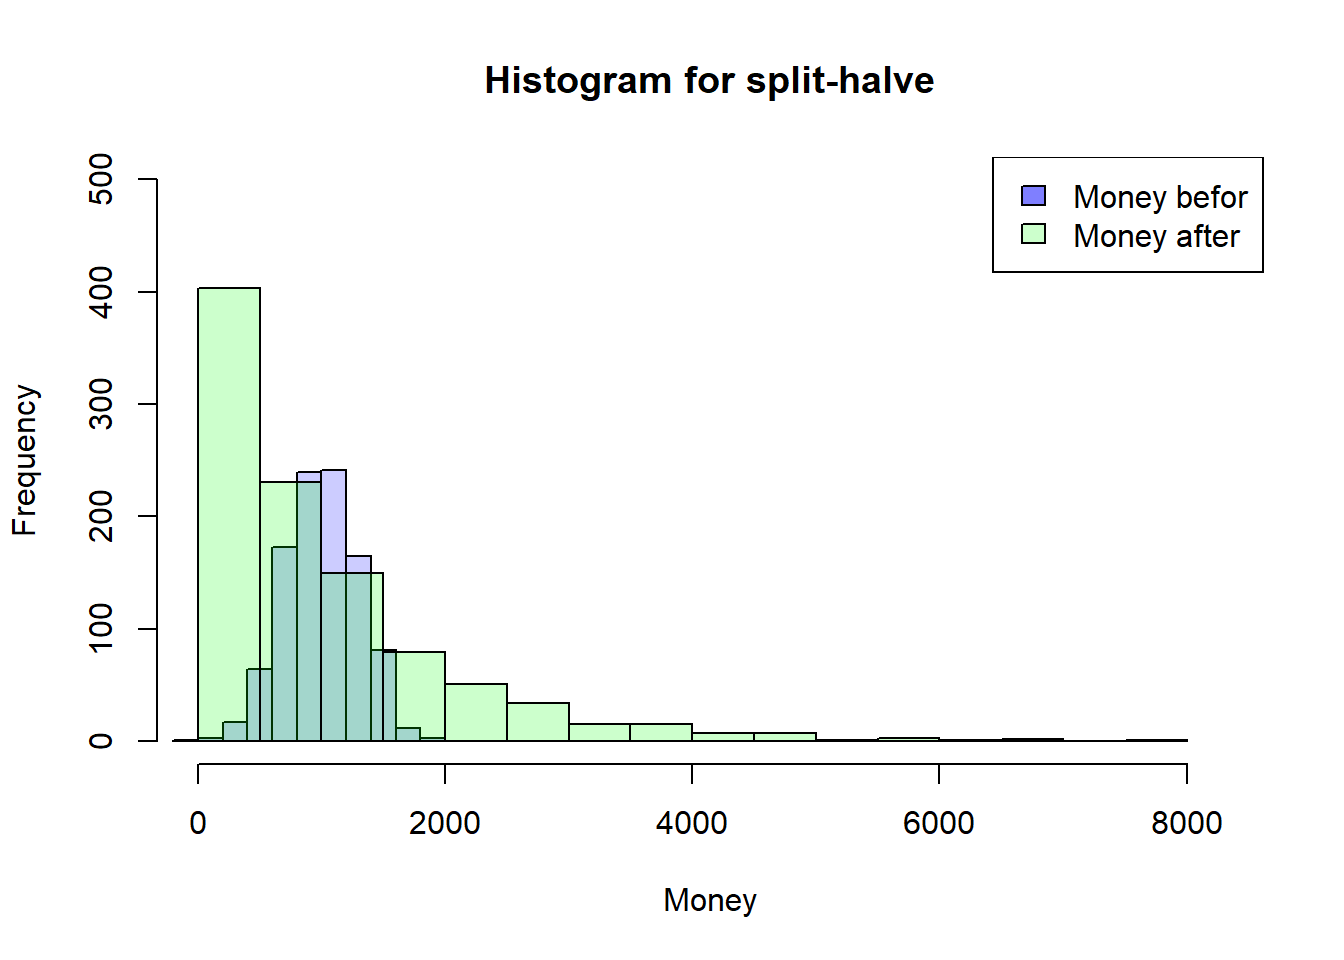
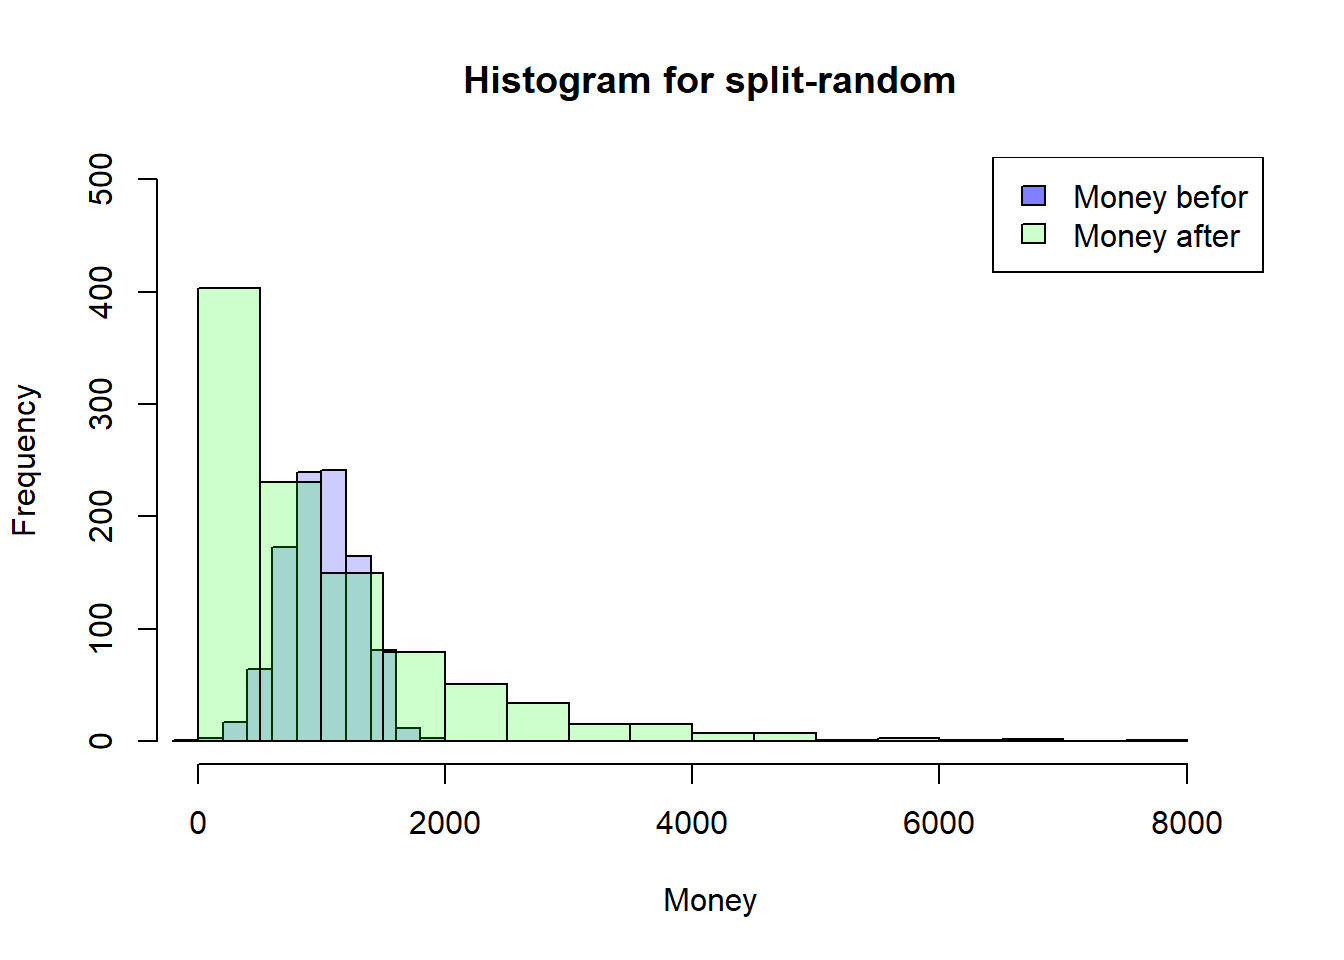
hw2

Changed region(s): [[0.3438, 0.0625, 0.7188, 0.125]]

diff --git a/docs/hw2/index.html b/docs/hw2/index.html
@@ -353,7 +353,7 @@ pre > code.sourceCode > span > a:first-child::before { text-decoration: underlin
  3rd Qu.:1330.8  
  Max.   :7532.5  </code></pre>
 </div>
-<details class="code-fold"><summary>Code</summary><div class="sourceCode" id="cb14"><pre class="downlit sourceCode r code-with-copy"><code class="sourceCode R"><span><span class="fu"><a href="https://rdrr.io/r/graphics/hist.html">hist</a></span><span class="op">(</span><span class="va">df</span><span class="op">$</span><span class="va">Ms</span>, xlab<span class="op">=</span><span class="st">"Money"</span>,main<span class="op">=</span><span class="st">"Histogram for split-halve"</span>,</span>
+<details class="code-fold"><summary>Code</summary><div class="sourceCode" id="cb14"><pre class="downlit sourceCode r code-with-copy"><code class="sourceCode R"><span><span class="fu"><a href="https://rdrr.io/r/graphics/hist.html">hist</a></span><span class="op">(</span><span class="va">df</span><span class="op">$</span><span class="va">Ms</span>, xlab<span class="op">=</span><span class="st">"Money"</span>,main<span class="op">=</span><span class="st">"Histogram for split-random"</span>,</span>
 <span>     col<span class="op">=</span><span class="fu"><a href="https://rdrr.io/r/grDevices/rgb.html">rgb</a></span><span class="op">(</span><span class="fl">0</span>,<span class="fl">0</span>,<span class="fl">1</span>,<span class="fl">0.2</span><span class="op">)</span>,</span>
 <span>     xlim<span class="op">=</span><span class="fu"><a href="https://rdrr.io/r/base/c.html">c</a></span><span class="op">(</span><span class="fl">0</span>,<span class="fu"><a href="https://rdrr.io/r/base/Extremes.html">max</a></span><span class="op">(</span><span class="fu"><a href="https://rdrr.io/r/base/c.html">c</a></span><span class="op">(</span><span class="va">df</span><span class="op">$</span><span class="va">Me</span>,<span class="va">df</span><span class="op">$</span><span class="va">Ms</span><span class="op">)</span><span class="op">)</span><span class="op">)</span><span class="op">*</span><span class="fl">1.1</span>,ylim<span class="op">=</span><span class="fu"><a href="https://rdrr.io/r/base/c.html">c</a></span><span class="op">(</span><span class="fl">0</span>,<span class="fu"><a href="https://rdrr.io/r/base/nrow.html">nrow</a></span><span class="op">(</span><span class="va">df</span><span class="op">)</span><span class="op">/</span><span class="fl">2</span><span class="op">)</span><span class="op">)</span></span>
 <span><span class="fu"><a href="https://rdrr.io/r/graphics/hist.html">hist</a></span><span class="op">(</span><span class="va">df</span><span class="op">$</span><span class="va">Me</span>, col<span class="op">=</span><span class="fu"><a href="https://rdrr.io/r/grDevices/rgb.html">rgb</a></span><span class="op">(</span><span class="fl">0</span>,<span class="fl">1</span>,<span class="fl">0</span>,<span class="fl">0.2</span><span class="op">)</span>,</span>
@@ -985,7 +985,7 @@ window.document.addEventListener("DOMContentLoaded", function (event) {
 <span id="cb16-136"><a href="#cb16-136" aria-hidden="true" tabindex="-1"></a>df <span class="ot">&lt;-</span> <span class="fu">SplitRandom</span>(<span class="dv">1000</span>,<span class="dv">7500</span>)</span>
 <span id="cb16-137"><a href="#cb16-137" aria-hidden="true" tabindex="-1"></a></span>
 <span id="cb16-138"><a href="#cb16-138" aria-hidden="true" tabindex="-1"></a><span class="fu">summary</span>(df)</span>
-<span id="cb16-139"><a href="#cb16-139" aria-hidden="true" tabindex="-1"></a><span class="fu">hist</span>(df<span class="sc">$</span>Ms, <span class="at">xlab=</span><span class="st">"Money"</span>,<span class="at">main=</span><span class="st">"Histogram for split-halve"</span>,</span>
+<span id="cb16-139"><a href="#cb16-139" aria-hidden="true" tabindex="-1"></a><span class="fu">hist</span>(df<span class="sc">$</span>Ms, <span class="at">xlab=</span><span class="st">"Money"</span>,<span class="at">main=</span><span class="st">"Histogram for split-random"</span>,</span>
 <span id="cb16-140"><a href="#cb16-140" aria-hidden="true" tabindex="-1"></a>     <span class="at">col=</span><span class="fu">rgb</span>(<span class="dv">0</span>,<span class="dv">0</span>,<span class="dv">1</span>,<span class="fl">0.2</span>),</span>
 <span id="cb16-141"><a href="#cb16-141" aria-hidden="true" tabindex="-1"></a>     <span class="at">xlim=</span><span class="fu">c</span>(<span class="dv">0</span>,<span class="fu">max</span>(<span class="fu">c</span>(df<span class="sc">$</span>Me,df<span class="sc">$</span>Ms)))<span class="sc">*</span><span class="fl">1.1</span>,<span class="at">ylim=</span><span class="fu">c</span>(<span class="dv">0</span>,<span class="fu">nrow</span>(df)<span class="sc">/</span><span class="dv">2</span>))</span>
 <span id="cb16-142"><a href="#cb16-142" aria-hidden="true" tabindex="-1"></a><span class="fu">hist</span>(df<span class="sc">$</span>Me, <span class="at">col=</span><span class="fu">rgb</span>(<span class="dv">0</span>,<span class="dv">1</span>,<span class="dv">0</span>,<span class="fl">0.2</span>),</span>
